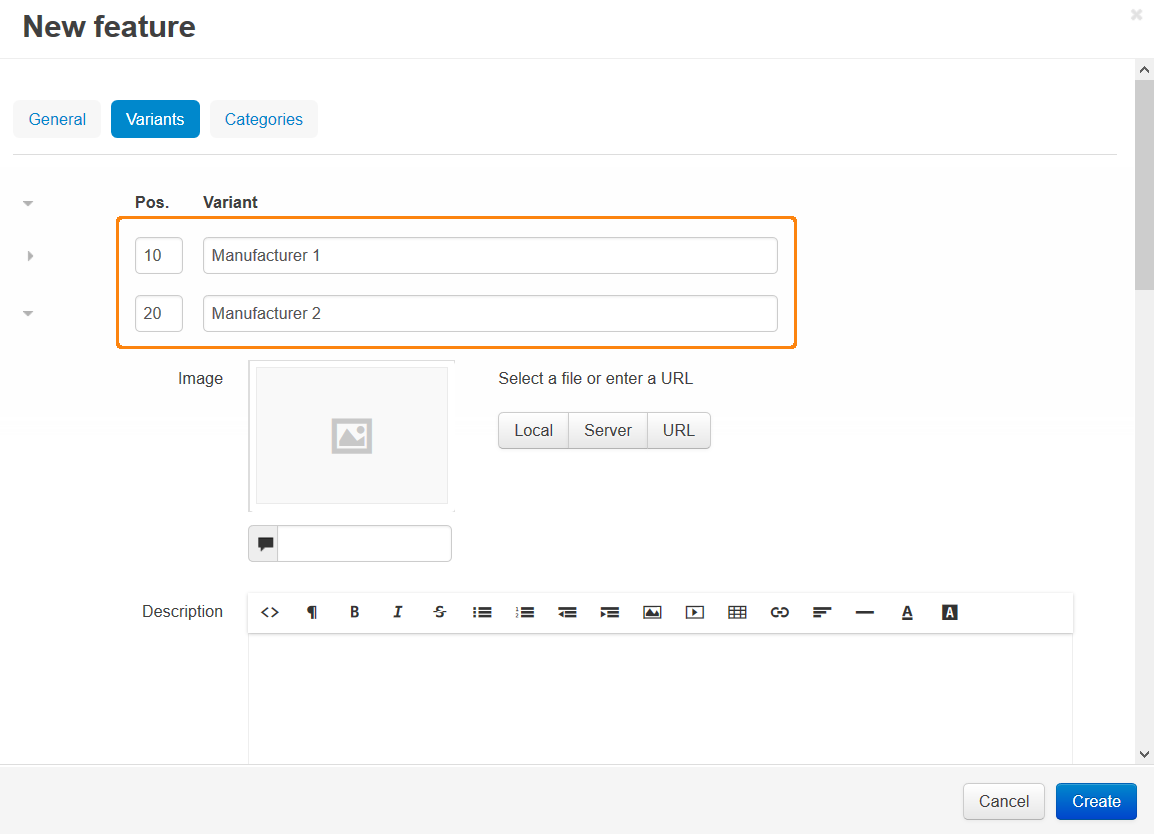
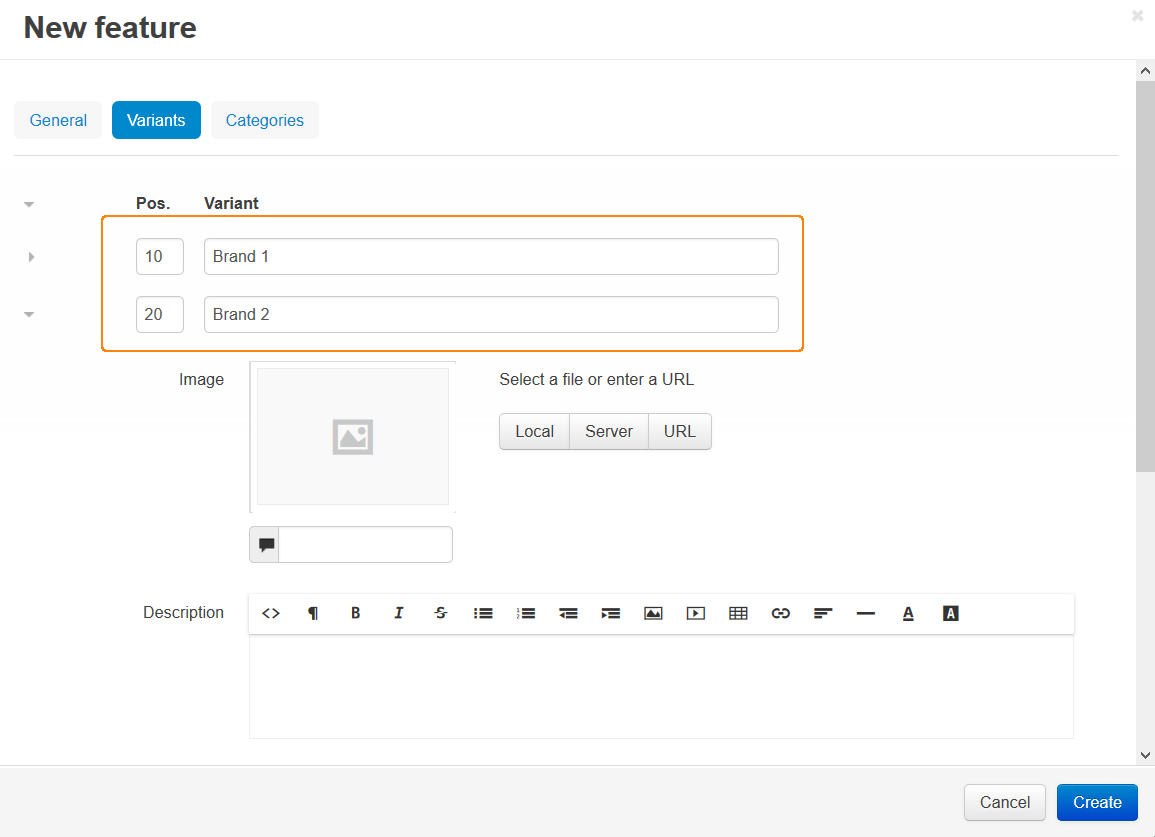
User Guide: Manage Products: Features/Filters: Minor fixes.

diff --git a/user_guide/manage_products/features/feature_attributes.rst b/user_guide/manage_products/features/feature_attributes.rst
@@ -1,16 +1,21 @@
 ************************************
-Feature and feature group attributes
+Feature and Feature Group Attributes
 ************************************
+
+.. image:: img/features_storefront.png
+    :align: center
+    :alt: The features tab on the storefront
 
 General
 *******
+
 *	**Name** - Name of the feature as it appears on the storefront and in the Administration panel.
 *	**Store** - Store to which the product feature originally belongs.
 *	**Feature code** - Individual code to identify the feature.
 *	**Position** - Position of the feature relatively to the position of the other features in the list.
-*	**Description** - Product feature description that appears on the storefront if the customer clicks the question sign (?) next to the feature name in the **Feature** tab.
+*	**Description** - Product feature description that appears on the storefront if the customer clicks the question sign (**?**) next to the feature name in the **Feature** tab.
 *	**Type** - Type of the field for the feature: *Check box (Single, Multiple)*, *Select box (Text, Number, Extended)* or *Others (Text, Number, Date)*. Selecting the *Extended* type enables you to extend feature values with several extra attributes like a separate image, description, page title, META description, and keywords.
-*	**Group** - Group that the product feature belongs to. If you assign the feature to a group, the next two attributes (*Product* and *Catalog* pages) will apply to the whole group, not just the feature.
+*	**Group** - Group that the product feature belongs to. If you assign the feature to a group, the next two attributes will apply to the whole group, not just the feature.
 *	**Show on the Features tab** - If enabled, the product feature is displayed on the product details page as a separate tab.
 *	**Show in product header** - If enabled, the feature is shown under the product header.
 *	**Show in product list** - If enabled, the feature appears on the storefront on a product list page among the other product details.
@@ -19,8 +24,29 @@ General
 
 Variants
 ********
+
 *	**Pos.** - Position of the feature value relatively to the position of the other values in the list.
 *	**Variant** - Feature value.
+
+Feature variant attributes for the extended feature types:
+
+* **Image** - Image to illustrate the feature variant.
+
+	Image can be either uploaded from a local computer or the server file system, or linked to a remote location where the required image is physically located.
+
+	Image must be of one of the following formats only: JPEG, GIF, PNG. Maximum size of an uploaded image depends on your server configuration. As a rule, it should not exceed 2 MB.
+
+	An alternative text describes an image in words. Technically, the text that you enter appears inside the ``alt=""`` and ``title=""`` attributes of the ``<img>`` HTML tag. The text is shown when the image is missing or cannot be displayed. It is good practice to have an alternative text associated with the image as an additional SEO-wise opportunity.
+
+* **Description** - Description of the feature variant as it appears on the storefront.
+
+	The description can be either a plain text or a formatted HTML text. If you are not familiar with HTML, you are encouraged to add a formatted description using the built-in WYSIWYG HTML editor.
+
+* **Page title** - Title of the feature variant page on the storefront, which is displayed in the web browser when somebody is viewing the page. Required for SEO purposes.
+* **URL** - Type the URL with which you want to replace the current URL. Leave empty if you want to use current page.
+* **META description** - Contents of the HTML meta tag describing the feature variant. Required for SEO purposes. 
+* **META keywords** - Contents of the HTML tag containing a list of search keywords for the feature variant. Required for SEO purposes.
+* **SEO name** - The value to which the standard URL will be changed.
 
 Categories
 **********

diff --git a/user_guide/manage_products/features/manufacturer.rst b/user_guide/manage_products/features/manufacturer.rst
@@ -1,13 +1,13 @@
-********************************************
-How To: Add the Manufacturer Product Feature
-********************************************
+*************************************
+How To: Add the Brand Product Feature
+*************************************
 
-To add the Manufacturer product feature:
+To add the Brand product feature:
 
 *   In the Administration panel, go to **Products → Features**.
 *   Click the **+** button on the right, choose **Add feature** from the drop-down menu, and specify the following fields in the opened **New feature** window:
 
-    *   **Name** - enter *Manufacturer*.
+    *   **Name** - enter *Brand*.
     *   **Feature code** - enter the individual code to identify the feature.
     *   **Position** - enter the feature position.
     *   **Description** - enter the feature description. It will be displayed if a customer clicks on **?** link under the **Features** tab on the product details page on the storefront.
@@ -21,21 +21,21 @@ To add the Manufacturer product feature:
 
 .. image:: img/manufacturer.png
     :align: center
-    :alt: The Manufacturer feature
+    :alt: The Brand feature
 
-*   Open the **Variants** tab and specify the necessary manufacturers.
+*   Open the **Variants** tab and specify the necessary brands.
 *   Click the **Create** button.
 
 .. image:: img/manufacturer1.png
     :align: center
     :alt: Feature variants
 
-To specify a manufacturer for a product:
+To specify a brand for a product:
 
 *   Go to **Products → Products** and click on the desired product link.
 *   Open the **Features** tab.
-*   Select the necessary manufacturer in the **Manufacturer** feature list and click the **Save** button.
+*   Select the necessary brand in the **Brand** feature list and click the **Save** button.
 
 .. note::
 
-    To add a product filter so that it could filter products by manufacturer, read the :doc:`Adding a product filter <../filters/adding_filter>` article.
+    To add a product filter so that it could filter products by brand, read the :doc:`Adding a product filter <../filters/adding_filter>` article.

diff --git a/user_guide/manage_products/features/feature_comparison.rst b/user_guide/manage_products/features/feature_comparison.rst
@@ -1,12 +1,12 @@
 ************************************
-How To: Make two products comparable
+How To: Make Two Products Comparable
 ************************************
 
 To make two products comparable:
 
 *   In the Administration panel, go to **Products → Products**.
 *   Click on the necessary product to open its details page.
-*   On the opened page, select the **Feature comparison** check box and click the **Save** button.
+*   On the opened page, select the **Feature comparison** check box under the **Extra** section and click the **Save** button.
 *   Repeat the same steps for the second product.
 
 .. image:: img/comparison_01.png
@@ -17,7 +17,7 @@ After that a customer will be able to compare these products by adding them to t
 
 .. important::
 
-    To use this function some features should be defined for the products in the **Features** tab on the product details page.
+    To use this function some `features <http://docs.cs-cart.com/4.3.x/user_guide/manage_products/features/product_features.html>`_ should be defined for the products in the **Features** tab on the product details page.
 
 To enable **Feature comparison** for several products at once:
 

diff --git a/user_guide/manage_products/features/index.rst b/user_guide/manage_products/features/index.rst
@@ -10,6 +10,10 @@ The section contains a list of all product features that are available in your s
     :align: center
     :alt: Product features
 
+.. note ::
+
+	You can use features to filter products in the advanced search in the **Products → Products** section.
+
 In this section
 ***************
 
@@ -17,4 +21,7 @@ In this section
     :maxdepth: 1
     :glob:
 
-    *
+    feature_attributes
+    product_features
+    manufacturer
+    feature_comparison

diff --git a/user_guide/manage_products/filters/index.rst b/user_guide/manage_products/filters/index.rst
@@ -21,4 +21,6 @@ In this section
     :maxdepth: 1
     :glob:
 
-    *
+    filter_attributes
+    adding_filter
+    filter_free_shipping
